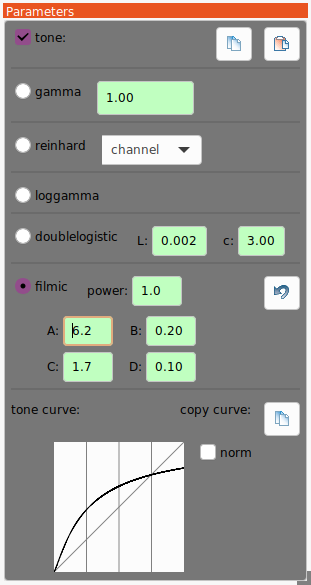
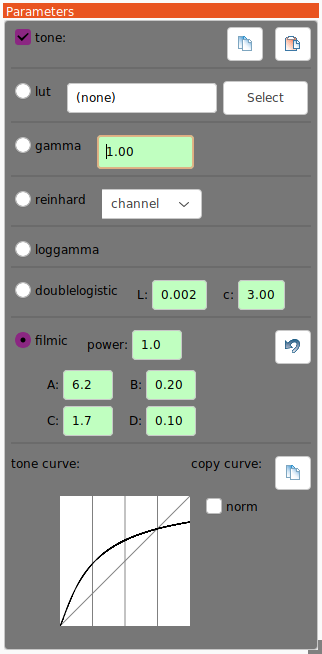
LUT tone operator documentation

Changed region(s): [[0.0, 0.0, 0.9839, 1.0], [0.6945, 0.3692, 0.9839, 0.5846], [0.8392, 0.6769, 0.9839, 0.7692]]

diff --git a/doc/tone.html b/doc/tone.html
@@ -2,12 +2,42 @@
 
 <h3 id="Tone">Tone</h3>
 <p>Applies the selected tone curve to the image.  This is just a somewhat random selection of functions, mainly for messing
-with.  I still use a manually-constructed per-image curve for my tone transforms, but some of these hold promise if used in 
-the right place.</p>
+with.</p>
 <p align=center><img src=tone.png></img></p>
 
 <p>Available tone operators:
 <ul>
+<li><b>lut:</b> Applies a 1DLUT specified by the selected file.  The file should contain a list of numbers from 0.0 to 1.0 that describe a curve. The following C program creates a 1DLUT of the proper format for the ARIB STD-B67 log-gamma curve:
+<pre>
+//Compile: g++ -o loggamma loggamma.c
+//Usage: ./loggamma > loggamma.lut
+
+#include &lt;stdio.h&gt;
+#include &lt;math.h&gt;
+
+float lin2loggamma(float in)
+{
+        double a = 0.17883277, b = 0.28466892, c = 0.55991073;
+        double rubicon = 1.0/12.0;
+        double sqrt3 = sqrt(3);
+
+        if (in > rubicon) 
+                return a * log(12*in - b) + c; 
+        else 
+                return sqrt3 * pow(in, 0.5); 
+}
+
+int main()
+{
+	float in, log;
+	float increment = 1.0 / 20.0; //20 steps, make this larger for better resolution...
+	
+	for (in=0.0; in<=1.0; in+=increment) 
+		printf("%f\n", lin2loggamma(in));
+}
+
+
+</pre>
 <li><b>gamma:</b> The same function as in the original gamma tool, which will eventually be removed.  Default: 1.0, or no-change.</li>
 <li><b>reinhart:</b> Applies the simple Reinhart function, val / (1-val), to either the individual channels, or as a computed 
 change to the luminance of each pixel.  Default: channel.</li>
